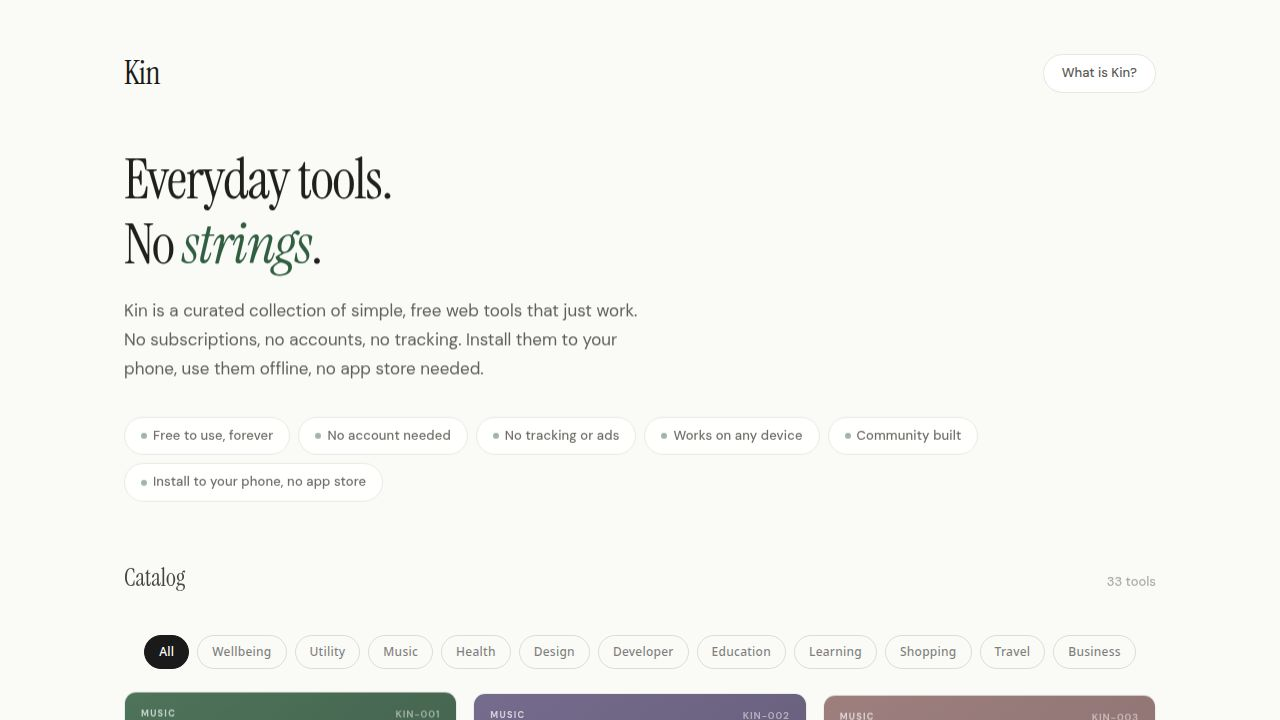
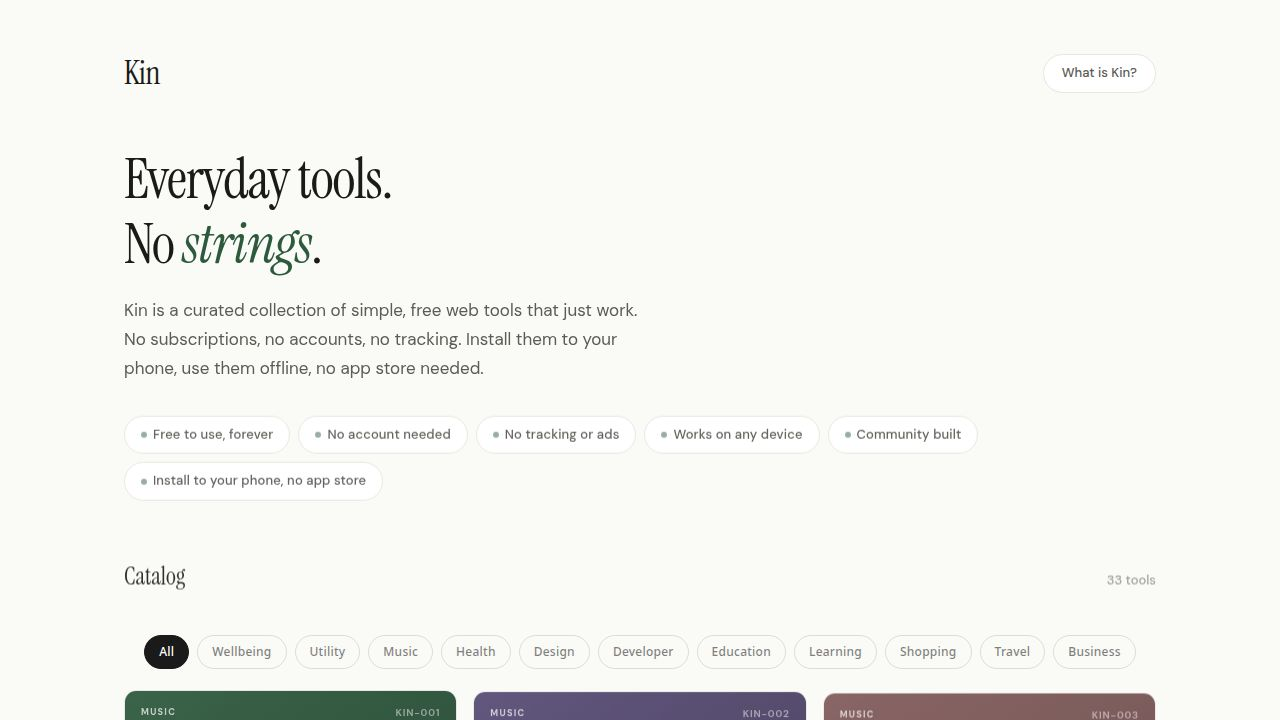
Add interactive version and changelog display to tool cards
Introduce CSS and JavaScript to display version badges with popover changelogs on tool cards in the landing page, updating the Metronome card specifically.

Replit-Commit-Author: Agent
Replit-Commit-Session-Id: 7d0ebbe0-f1e2-4c95-b6eb-6f3091e041b6
Replit-Commit-Checkpoint-Type: full_checkpoint
Replit-Commit-Event-Id: 8f11254a-3459-42ba-8320-36e5c4b09627
Replit-Commit-Screenshot-Url: https://storage.googleapis.com/screenshot-production-us-central1/4199a332-50ff-4866-9316-ad1c212cfeb1/7d0ebbe0-f1e2-4c95-b6eb-6f3091e041b6/JWCCIVl
Replit-Helium-Checkpoint-Created: true

diff --git a/sites/kin-landing/index.html b/sites/kin-landing/index.html
@@ -341,6 +341,72 @@
     margin-left: 2px;
   }
 
+  /* ---- VERSION BADGE + POPOVER ---- */
+  .ver-badge {
+    display: inline-flex;
+    align-items: center;
+    gap: 3px;
+    font-size: 10px;
+    font-weight: 500;
+    letter-spacing: 0.06em;
+    color: var(--text-dim);
+    opacity: 0.65;
+    margin-top: -4px;
+    margin-bottom: 2px;
+    cursor: default;
+    user-select: none;
+    position: relative;
+  }
+  .ver-badge.has-log {
+    cursor: pointer;
+    opacity: 0.65;
+    border-bottom: 1px dashed currentColor;
+  }
+  .ver-badge.has-log:hover { opacity: 1; }
+
+  .ver-popover {
+    position: absolute;
+    bottom: calc(100% + 6px);
+    left: 0;
+    z-index: 200;
+    background: var(--surface, #fff);
+    border: 1px solid var(--border, #e0dfd8);
+    border-radius: 8px;
+    box-shadow: 0 4px 16px rgba(0,0,0,0.12);
+    padding: 12px 14px;
+    min-width: 230px;
+    max-width: 280px;
+    pointer-events: none;
+    opacity: 0;
+    transform: translateY(4px);
+    transition: opacity 0.15s, transform 0.15s;
+  }
+  .ver-popover.open {
+    opacity: 1;
+    transform: translateY(0);
+    pointer-events: auto;
+  }
+  .ver-popover-row { margin-bottom: 10px; }
+  .ver-popover-row:last-child { margin-bottom: 0; }
+  .ver-popover-head {
+    font-size: 11px;
+    font-weight: 600;
+    color: var(--text, #111);
+    letter-spacing: 0.02em;
+  }
+  .ver-popover-date {
+    font-size: 11px;
+    color: var(--text-dim, #888);
+    margin-left: 4px;
+    font-weight: 400;
+  }
+  .ver-popover-note {
+    font-size: 12px;
+    color: var(--text-mid, #555);
+    margin-top: 2px;
+    line-height: 1.4;
+  }
+
   /* ---- CTA / CONTRIBUTE ---- */
   .contribute {
     max-width: 1080px;
@@ -696,7 +762,7 @@
     </div>
     <div class="release-info">
       <div class="release-name">Metronome</div>
-      <div style="font-size:10px;opacity:0.45;letter-spacing:0.06em;margin-top:-4px">v1.0</div>
+      <div class="ver-badge has-log" data-changes='[{"v":"1.1","date":"28 Mar 2026","note":"Fixed iOS double-tap zoom on Tap Tempo"},{"v":"1.0","date":"Initial release","note":"First release"}]'>v1.1</div>
       <div class="release-creator">by Darren</div>
       <div class="release-desc">Set a tempo, hear the click. Tap to find the BPM. Subdivisions if you need them. Works offline.</div>
       <div class="release-replaces">Replaces <span>Pro Metronome, Soundbrenner</span></div>
@@ -1757,6 +1823,87 @@ if("serviceWorker"in navigator){
       else { c.style.display = (c.dataset.category === cat) ? '' : 'none'; }
     });
   }
+  </script>
+
+  <script>
+  /* ---- VERSION BADGE POPOVERS ---- */
+  (function() {
+    var active = null;
+
+    function fmtDate(d) { return d; }
+
+    function buildPopover(changes) {
+      var el = document.createElement('div');
+      el.className = 'ver-popover';
+      var shown = changes.slice(0, 3);
+      shown.forEach(function(c) {
+        var row = document.createElement('div');
+        row.className = 'ver-popover-row';
+        var head = document.createElement('div');
+        head.innerHTML = '<span class="ver-popover-head">v' + c.v + '</span><span class="ver-popover-date">&middot; ' + fmtDate(c.date) + '</span>';
+        var note = document.createElement('div');
+        note.className = 'ver-popover-note';
+        note.textContent = c.note;
+        row.appendChild(head);
+        row.appendChild(note);
+        el.appendChild(row);
+      });
+      return el;
+    }
+
+    function closeActive() {
+      if (active) {
+        active.classList.remove('open');
+        active = null;
+      }
+    }
+
+    document.querySelectorAll('.ver-badge.has-log').forEach(function(badge) {
+      var raw = badge.getAttribute('data-changes');
+      if (!raw) return;
+      var changes;
+      try { changes = JSON.parse(raw); } catch(e) { return; }
+      if (!changes.length) return;
+
+      var pop = buildPopover(changes);
+      badge.appendChild(pop);
+
+      // Desktop: hover
+      var hoverTimer;
+      badge.addEventListener('mouseenter', function() {
+        clearTimeout(hoverTimer);
+        closeActive();
+        pop.classList.add('open');
+        active = pop;
+      });
+      badge.addEventListener('mouseleave', function() {
+        hoverTimer = setTimeout(function() {
+          pop.classList.remove('open');
+          if (active === pop) active = null;
+        }, 200);
+      });
+      pop.addEventListener('mouseenter', function() { clearTimeout(hoverTimer); });
+      pop.addEventListener('mouseleave', function() {
+        hoverTimer = setTimeout(function() {
+          pop.classList.remove('open');
+          if (active === pop) active = null;
+        }, 200);
+      });
+
+      // Mobile: tap
+      badge.addEventListener('click', function(e) {
+        e.preventDefault();
+        e.stopPropagation();
+        var isOpen = pop.classList.contains('open');
+        closeActive();
+        if (!isOpen) { pop.classList.add('open'); active = pop; }
+      });
+    });
+
+    // Tap outside closes
+    document.addEventListener('click', function() { closeActive(); });
+    document.addEventListener('scroll', function() { closeActive(); }, true);
+  })();
   </script>
 </body>
 </html>
